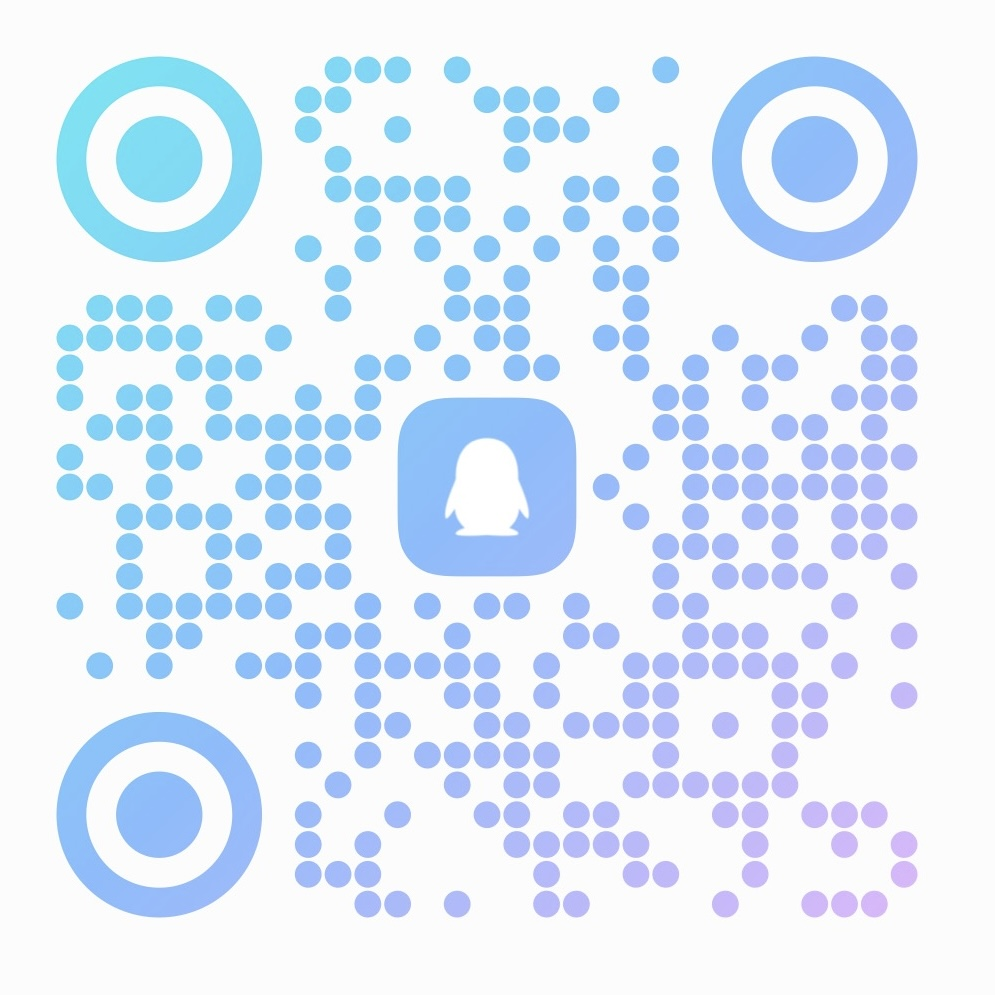
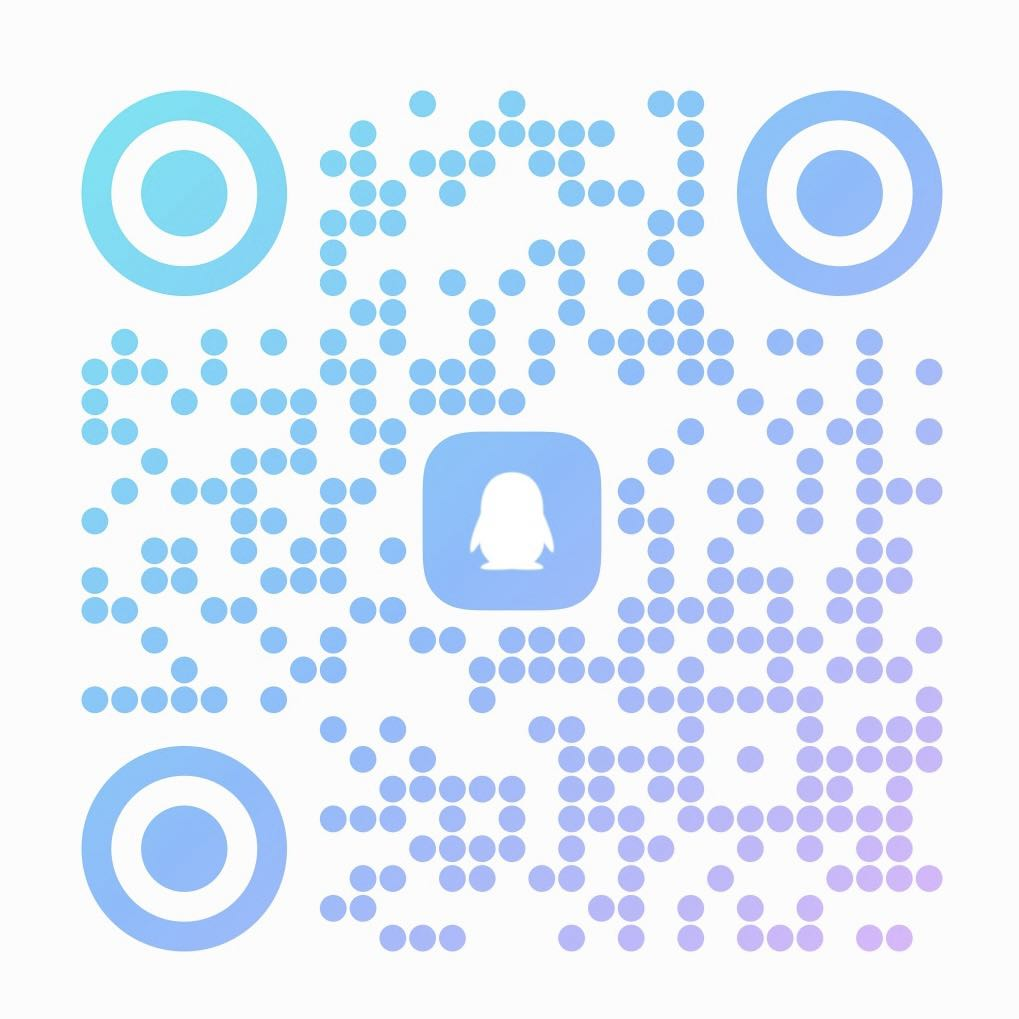
feat: 添加开发状态公告并更新QQ群二维码
- 在Hero section添加开发状态公告，说明桌面版开发进度
- 强调个人开发者项目性质，请用户耐心等待
- 支持中英日韩四语言公告内容
- 更新QQ群二维码图片
- 公告采用渐变背景和图标设计，提升视觉效果

diff --git a/index.html b/index.html
@@ -306,6 +306,27 @@
             <div class="text-center mt-6">
                 <p class="text-sm text-gray-400" data-i18n="hero.beta.info">桌面版内测招募中，扫码联系开发者获取内测资格</p>
             </div>
+            
+            <!-- 开发状态公告 -->
+            <div class="mt-8 max-w-4xl mx-auto">
+                <div class="bg-gradient-to-r from-blue-500/10 to-purple-500/10 border border-blue-500/20 rounded-xl p-6 backdrop-blur-sm">
+                    <div class="flex items-start space-x-3">
+                        <div class="flex-shrink-0">
+                            <div class="w-8 h-8 bg-blue-500/20 rounded-full flex items-center justify-center">
+                                <svg class="w-4 h-4 text-blue-400" fill="none" stroke="currentColor" viewBox="0 0 24 24">
+                                    <path stroke-linecap="round" stroke-linejoin="round" stroke-width="2" d="M13 16h-1v-4h-1m1-4h.01M21 12a9 9 0 11-18 0 9 9 0 0118 0z"></path>
+                                </svg>
+                            </div>
+                        </div>
+                        <div class="flex-1">
+                            <h3 class="text-lg font-semibold text-white mb-2" data-i18n="announcement.title">开发状态公告</h3>
+                            <p class="text-gray-300 leading-relaxed" data-i18n="announcement.content">
+                                桌面版正在全力开发中，本项目为个人开发者项目。我们会持续优化产品体验，完成后将第一时间发布，感谢您的耐心等待！
+                            </p>
+                        </div>
+                    </div>
+                </div>
+            </div>
             </div>
         </div>
     </section>
@@ -1047,7 +1068,9 @@
                 'hero.github.view': 'GitHub',
                 'hero.beta.info': '桌面版内测招募中，扫码联系开发者获取内测资格',
                 'waitlist.title': '申请内测资格',
-                'waitlist.subtitle': '扫描下方二维码，联系AutoClip开发者，申请桌面版内测资格'
+                'waitlist.subtitle': '扫描下方二维码，联系AutoClip开发者，申请桌面版内测资格',
+                'announcement.title': '开发状态公告',
+                'announcement.content': '桌面版正在全力开发中，本项目为个人开发者项目。我们会持续优化产品体验，完成后将第一时间发布，感谢您的耐心等待！'
             },
             en: {
                 'nav.features': 'Features',
@@ -1159,7 +1182,9 @@
                 'hero.github.view': 'GitHub',
                 'hero.beta.info': 'Desktop version beta recruitment in progress, scan QR code to contact developer for beta access',
                 'waitlist.title': 'Apply for Beta Access',
-                'waitlist.subtitle': 'Scan the QR code below to contact AutoClip developer and apply for desktop version beta access'
+                'waitlist.subtitle': 'Scan the QR code below to contact AutoClip developer and apply for desktop version beta access',
+                'announcement.title': 'Development Status Announcement',
+                'announcement.content': 'Desktop version is under intensive development. This is a personal developer project. We will continue to optimize the product experience and release it as soon as it\'s ready. Thank you for your patience!'
             },
             ja: {
                 'nav.features': '機能',
@@ -1271,7 +1296,9 @@
                 'hero.github.view': 'GitHub',
                 'hero.beta.info': 'デスクトップ版ベータ募集進行中、QRコードをスキャンしてユーザーグループに参加しベータアクセスを取得',
                 'waitlist.title': 'ベータアクセス申請',
-                'waitlist.subtitle': '下のQRコードをスキャンしてAutoClipユーザーグループに参加し、デスクトップ版ベータアクセスを申請'
+                'waitlist.subtitle': '下のQRコードをスキャンしてAutoClipユーザーグループに参加し、デスクトップ版ベータアクセスを申請',
+                'announcement.title': '開発状況のお知らせ',
+                'announcement.content': 'デスクトップ版は全力で開発中です。本プロジェクトは個人開発者プロジェクトです。製品体験を継続的に最適化し、完成次第すぐにリリースいたします。お待ちいただきありがとうございます！'
             },
             ko: {
                 'nav.features': '기능',
@@ -1383,7 +1410,9 @@
                 'hero.github.view': 'GitHub',
                 'hero.beta.info': '데스크톱 버전 베타 모집 진행 중, QR 코드를 스캔하여 사용자 그룹에 참여하고 베타 액세스 획득',
                 'waitlist.title': '베타 액세스 신청',
-                'waitlist.subtitle': '아래 QR 코드를 스캔하여 AutoClip 사용자 그룹에 참여하고 데스크톱 버전 베타 액세스를 신청하세요'
+                'waitlist.subtitle': '아래 QR 코드를 스캔하여 AutoClip 사용자 그룹에 참여하고 데스크톱 버전 베타 액세스를 신청하세요',
+                'announcement.title': '개발 상태 공지',
+                'announcement.content': '데스크톱 버전이 전력으로 개발 중입니다. 본 프로젝트는 개인 개발자 프로젝트입니다. 제품 경험을 지속적으로 최적화하고 완성되면 즉시 출시하겠습니다. 기다려 주셔서 감사합니다!'
             }
         };
 
